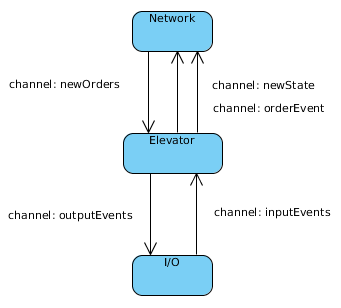
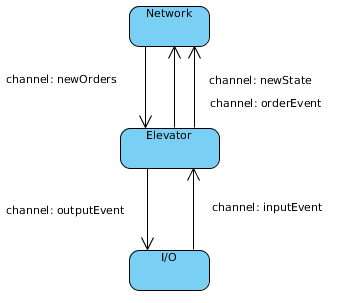
asdf

diff --git a/Project/UML/README.md b/Project/UML/README.md
@@ -14,15 +14,48 @@ A network may consist of multiple sub-network and therefore multiple masters. Al
 
 ## Modularization
 
+A single elevator is divided into three primary modules: 
+
+* Network
+* Elevator
+* I/O
+
+As the project is implemented in Go, each module is implemented as a goroutine with channels between them to share data concurrently.
+
 ![alt text](modules.png)
 
-### Orders
+### Network module
 
-All orders are only manipulated by the network thread, and only read by the local elevator thread.
+The primary function of this module is to communicate with other nodes. An important part of this is to connect to the master or open connection for slaves (through UDP-broadcasting) if the given elevator is the current master. When a node is a master it also calculates a cost-function to decide which elevator gets the orders. The network module knows the state of and orders from the local elevator, communicates with all nodes to distribute the orders. 
 
-* Global -- All orders in the network. All nodes should have identity global orders. The master handles synchronization of these orders.
+* channel: newOrders - When a new order arrives the node, the order is sent into this channel so that the elevator module can read it
 
-* Local -- Orders that the local node are assigned to do by the master
+### Elevator module
+
+The elevator module keeps track of the given elevator's state, local orders, global orders, and new events. This data is used to control the elevator. By looking at the local orders and the state of the given elevator this modules determines the output of the motor. It also controls the lights by looking at the list of global orders. 
+
+* channel: newState - When the elevator transitions from one state to another, the new state is sent into this channel so that the network module can read it
+
+* channel: orderEvent -  When a new event is detected, the order is sent into this channel so that the network module can read it
+
+* channel: outputEvent - When a new order is detected or the lights of the elevator needs to change, the event is sent into this channel so that the I/O module can read it
+
+### I/O module
+
+The primary function of the I/O module is to keep track of which buttons are pressed, when a floor is reached, when the door is open, and to set the direction and speed of the motor in the elevator. It also sends this data forward to the elevator module. 
+
+* channel: inputEvent - When a new event is detected by the I/O module, the event is sent into this channel so that the elevator module can read it 
+
+
+## Order preservation
+
+
+
+* Global -- All orders in the network. All nodes should have identical global orders. The master handles synchronization of these orders.
+
+* Local -- Orders that the local node is assigned to do by the master
+
+
 
 ## Error handling
 
@@ -35,6 +68,8 @@ All orders are only manipulated by the network thread, and only read by the loca
 * Elevator hangs / never arrives -- If the physical elevator does not reach the next floor before a given timeout, the local program is terminated and must be investigated by an operator before manually restarted. The other nodes will act as if the given elevator is dead, and will redistribute all global orders.
 
 * UDP packet is lost -- This will cause no problem because UDP is only used for broadcasting repeatedly. If one does not arrive, eventually one of the following will.
+
+* Disconnect while order is sending to master -- A buffer in the network module prevents orders from being deleted locally when disconnecting from master. As the node switches to master, it can then handle the order itself. The master clears the buffer when all slaves have received the order. Slaves wait for the master to return the order before clearing the buffer.
 
 ## Examples
 
